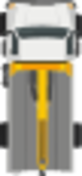
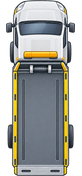
fix: bigger truck marker (v0.3.1)
The truck read as small on the map, and smaller still when zoomed in
(native markers keep a fixed screen size). Grow it ~25% from 24 × 46 to
30 × 58 pt, regenerated from truck-top.png so all densities stay sharp.
Also ships the new flatbed truck artwork.

diff --git a/src/map/MapSurface.tsx b/src/map/MapSurface.tsx
@@ -24,7 +24,7 @@ import {
 
 const fallbackMapImage = require("../../assets/map/arriving-map.png");
 const truckTopImage = require("../../assets/map/truck-top.png");
-// Density-qualified 24 × 46 image: native markers do not accept Image styles.
+// Density-qualified 30 × 58 image: native markers do not accept Image styles.
 const truckMarkerImage = require("../../assets/map/truck-marker.png");
 // Density-qualified 44 × 54 pins with the shadow baked in. Native markers get
 // them through `image`, so Android never snapshots (and clips) a styled View.
@@ -32,7 +32,7 @@ const pickupPinImage = require("../../assets/map/pin-pickup.png");
 const dropoffPinImage = require("../../assets/map/pin-dropoff.png");
 // The pin tip sits at y = 45 of the 54 pt image.
 const pinAnchor = { x: 0.5, y: 45 / 54 };
-// Front axle of the 24 × 46 top-down truck (heading 0 = image pointing up).
+// Front axle of the 30 × 58 top-down truck (heading 0 = image pointing up).
 const TRUCK_CAB_ANCHOR = { x: 0.5, y: 0.22 };
 
 type ReactNativeMapsModule = typeof import("react-native-maps");
@@ -650,13 +650,13 @@ const styles = StyleSheet.create({
 
   truckMarker: {
     alignItems: "center",
-    height: 52,
+    height: 64,
     justifyContent: "center",
-    width: 40,
+    width: 46,
   },
   truckMarkerImage: {
-    height: 46,
-    width: 24,
+    height: 58,
+    width: 30,
     zIndex: 1,
   },
   truckMarkerShadow: {
@@ -664,7 +664,7 @@ const styles = StyleSheet.create({
     borderRadius: radius.pill,
     height: 4,
     marginTop: -3,
-    width: 28,
+    width: 34,
   },
   etaMarkerFrame: {
     alignItems: "center",
